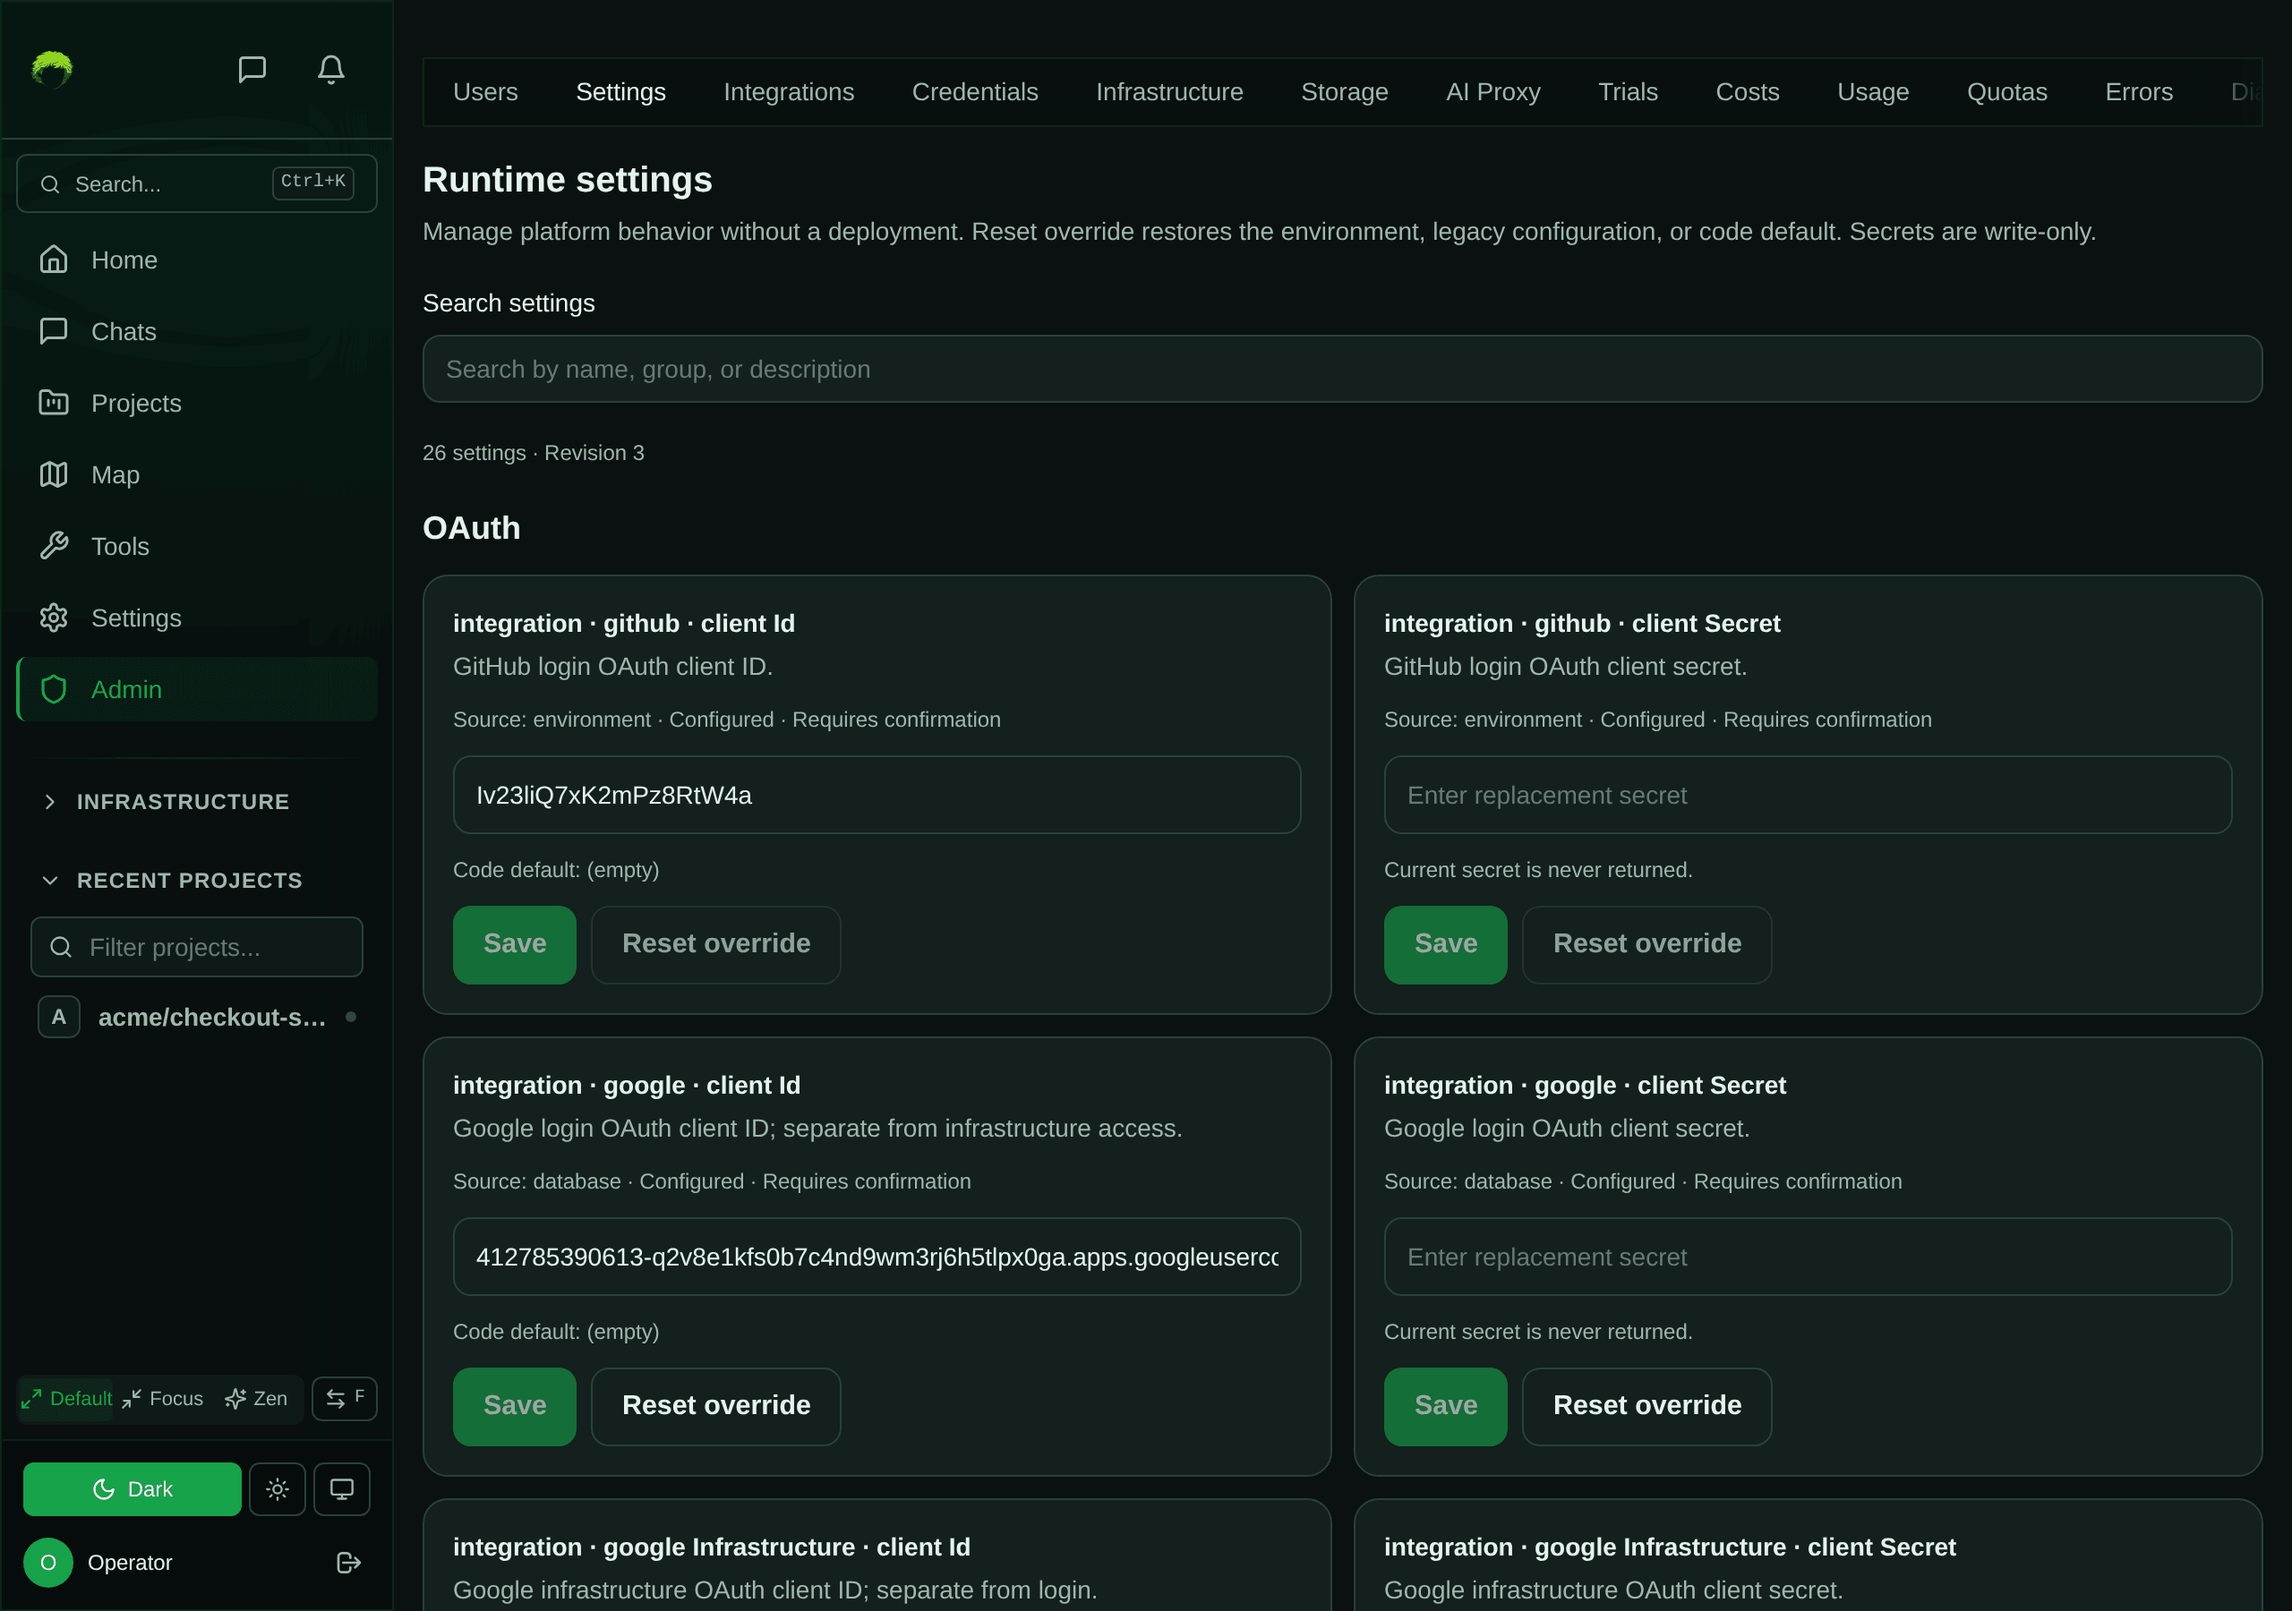
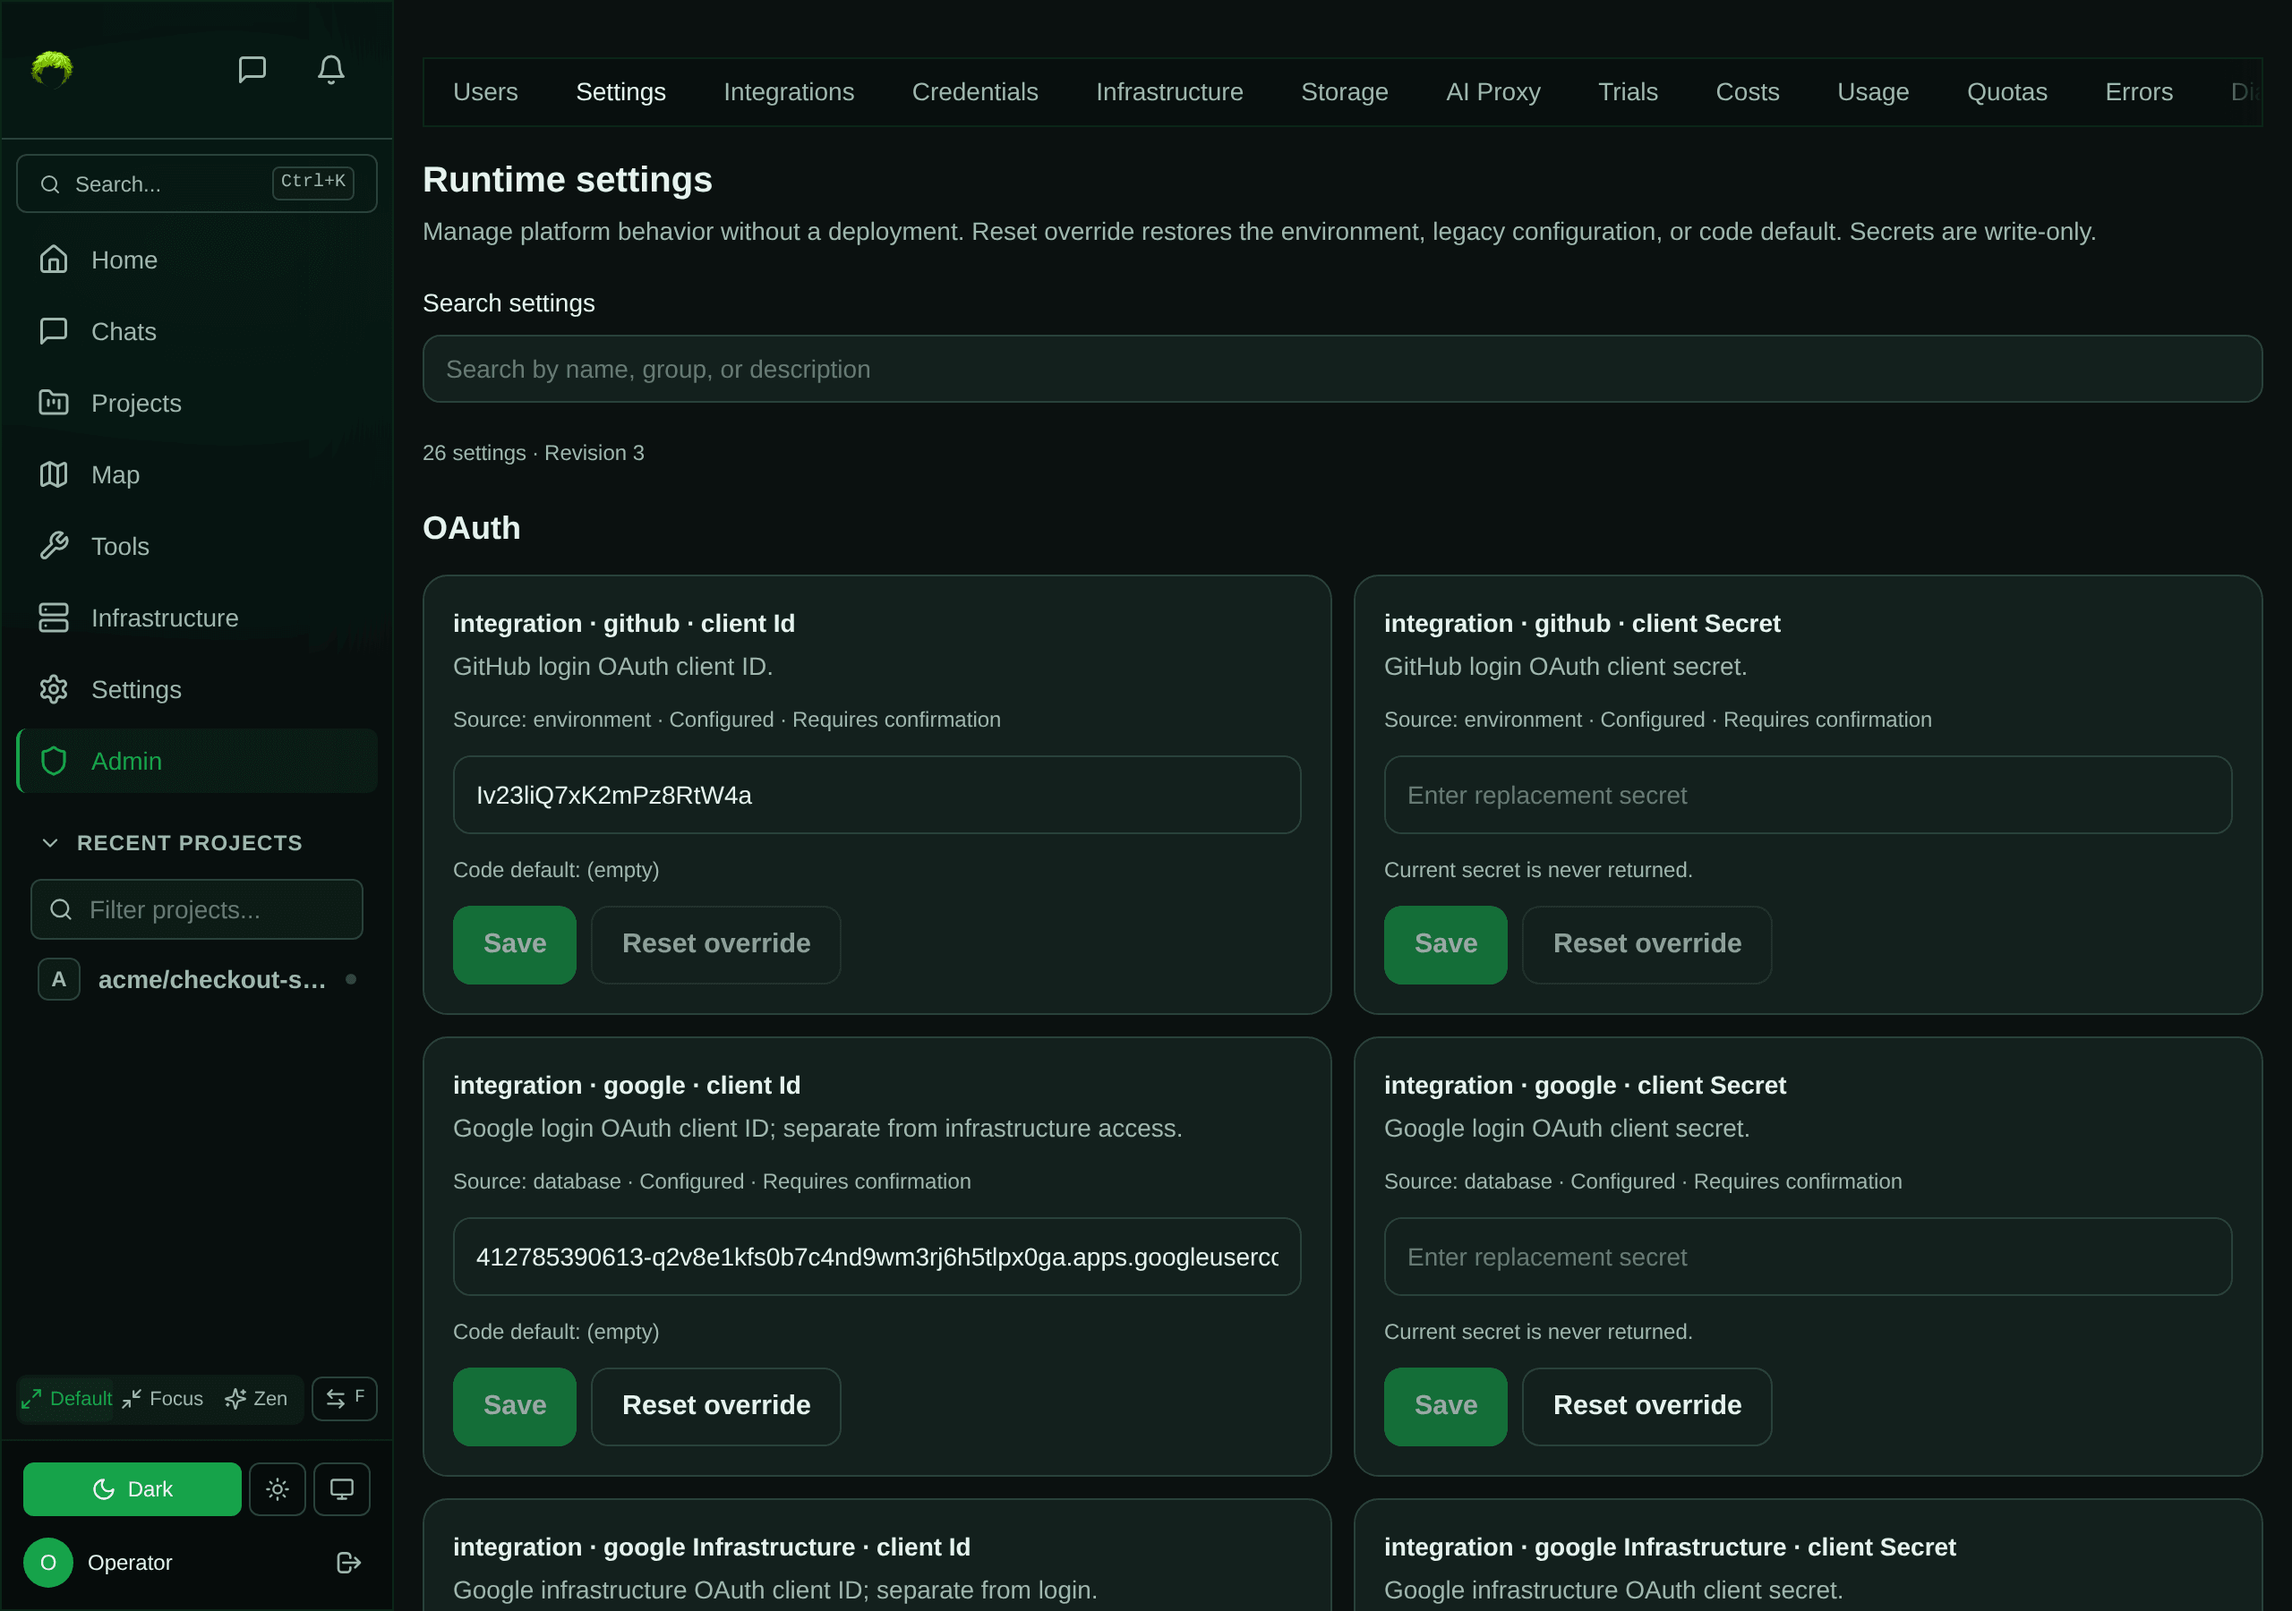
docs: recapture Admin Settings with today's sidebar (Infrastructure link)

Changed region(s): [[0.0, 0.4667, 0.125, 0.6533], [0.0, 0.3733, 0.0938, 0.4356], [0.0, 0.0311, 0.0312, 0.0622]]

diff --git a/apps/www/src/content/docs/docs/guides/admin-settings.md b/apps/www/src/content/docs/docs/guides/admin-settings.md
@@ -33,7 +33,7 @@ shows as **operations · cron Sweeps Enabled** — and shows:
   <source media="(max-width: 40em)" srcset="/images/docs/admin-settings-mobile.png 2x" />
   <img
     src="/images/docs/admin-settings.png"
-    alt="The Runtime settings page under Admin → Settings. On a desktop: a search box, a count of 26 settings, then the OAuth group, where the GitHub sign-in cards say &quot;Source: environment · Configured · Requires confirmation&quot;, the Google ones &quot;Source: database&quot;, client ID fields show their values, and secret fields say &quot;Current secret is never returned&quot;. On a phone: the Connector group, where &quot;connector · enabled&quot; says &quot;Source: default · Not configured&quot; and &quot;connector · write Enabled&quot; is set to Disabled with &quot;Source: database&quot; and an available Reset override button."
+    alt="The Runtime settings page under Admin → Settings. On a desktop: a search box, the number of settings, then the OAuth group, where the GitHub sign-in cards say &quot;Source: environment · Configured · Requires confirmation&quot;, the Google ones &quot;Source: database&quot;, client ID fields show their values, and secret fields say &quot;Current secret is never returned&quot;. On a phone: the Connector group, where &quot;connector · enabled&quot; says &quot;Source: default · Not configured&quot; and &quot;connector · write Enabled&quot; is set to Disabled with &quot;Source: database&quot; and an available Reset override button."
   />
 </picture>
 
